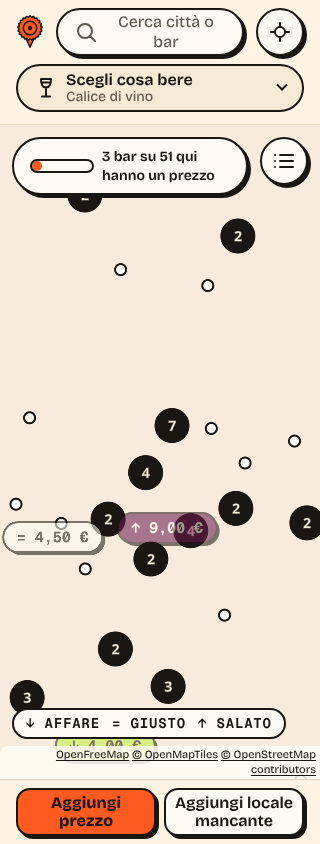
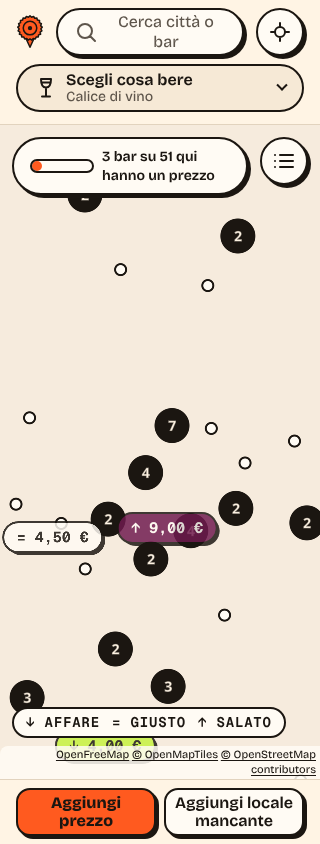
fix(map): attribution may wrap, legend follows its height, dot halo
Review findings: nowrap pushed the attribution off screen with WCAG
1.4.12 text spacing; the legend now sits above the measured attribution
height; the position dot gets a faint map-me halo so it differs from a
bar dot by shape in the dark theme (WCAG 1.4.1). Design system, D-33,
ADR 0031 and PROGRESS updated.

Claude-Session: https://claude.ai/code/session_017jgMpjY436qbLfecrhWy92

diff --git a/tests/e2e/brand-map.spec.ts b/tests/e2e/brand-map.spec.ts
@@ -95,6 +95,33 @@ for (const [scheme, width, lines] of [
   });
 }
 
+test("SPEC 2.8 with WCAG 1.4.12 text spacing the attribution wraps inside the map, under the legend", async ({
+  page,
+}) => {
+  await page.goto("/");
+  await goToMilano(page);
+  await chooseDrinks(page, "Calice di vino");
+  const attribution = page.locator(".map__attribution");
+  // CSSOM, as a user stylesheet would: the CSP forbids an inline <style>.
+  await attribution.evaluate((e) => {
+    e.style.letterSpacing = "0.12em";
+    e.style.wordSpacing = "0.16em";
+    e.style.lineHeight = "1.5";
+  });
+  await expect(attribution).toContainText("© OpenStreetMap contributors");
+  expect(await attribution.evaluate((e) => e.scrollWidth <= e.clientWidth)).toBe(true);
+  const map = await mapRegion(page).boundingBox();
+  const line = await attribution.boundingBox();
+  expect(line && map && line.x >= map.x && line.x + line.width <= map.x + map.width).toBe(true);
+  await expect
+    .poll(async () => {
+      const legend = await page.locator(".legend").boundingBox();
+      const now = await attribution.boundingBox();
+      return legend && now ? now.y - (legend.y + legend.height) : -1;
+    })
+    .toBeGreaterThanOrEqual(0);
+});
+
 for (const scheme of ["light", "dark"] as const) {
   test(`MB-06 MB-14 ${scheme}: own style, no axe violations`, async ({ page }, info) => {
     await atHour(page, THEME_HOURS[scheme]);

diff --git a/src/app/styles/app.css b/src/app/styles/app.css
@@ -312,7 +312,6 @@
   margin: 0;
   padding: 2px var(--space-1);
   line-height: 1.3;
-  white-space: nowrap;
   text-align: right;
   font-size: var(--size-legal);
   color: var(--map-pill-text);
@@ -323,12 +322,6 @@
   color: var(--map-pill-text);
   text-decoration-thickness: 1px;
   text-underline-offset: 2px;
-}
-/* A narrow phone wraps rather than cutting the names off. */
-@media (max-width: 359px) {
-  .map__attribution {
-    white-space: normal;
-  }
 }
 
 /* Bottom bar */
@@ -1054,22 +1047,18 @@
   color: var(--map-pill-text);
 }
 /* Legend and invitation float over the map above the attributions (SPEC 2.8: always visible, one line
-   from 360 px, two below); nothing here takes room from the map. */
+   at 390 px, more on a narrow phone or with larger text: their height is measured); nothing here takes
+   room from the map. */
 .map__stack {
   position: absolute;
   left: var(--space-3);
   right: var(--space-3);
-  bottom: var(--space-6);
+  bottom: calc(var(--attribution-h, var(--space-6)) + var(--space-2));
   display: flex;
   flex-direction: column;
   align-items: flex-start;
   gap: var(--space-2);
   pointer-events: none;
-}
-@media (max-width: 359px) {
-  .map__stack {
-    bottom: calc(var(--space-8) + var(--space-2));
-  }
 }
 
 /* Price legend (D-12): shown only when the zone has colours; glyph + word, never colour alone */

diff --git a/src/app/lib/maplibre-map.ts b/src/app/lib/maplibre-map.ts
@@ -329,7 +329,14 @@ export class VenueMap {
       },
     });
     // Where "Vicino a me" found the device (D-33): a small dot under the prices, drawn here only.
+    // A faint halo around it: it must differ from a bar dot by shape, not by colour only (WCAG 1.4.1).
     map.addSource("me", { type: "geojson", data: this.meData() });
+    map.addLayer({
+      id: "me-ring",
+      type: "circle",
+      source: "me",
+      paint: { "circle-radius": 12, "circle-color": token("--map-me"), "circle-opacity": 0.25 },
+    });
     map.addLayer({
       id: "me-dot",
       type: "circle",
@@ -427,7 +434,8 @@ export class VenueMap {
   private reportRendered() {
     const features = this.map.queryRenderedFeatures({ layers: ["venue-price"] });
     this.renderedListener?.([...new Set(features.map((f) => String(f.properties.label)))].sort());
-    const drawn = this.me && this.map.queryRenderedFeatures({ layers: ["me-dot"] }).length > 0;
+    const drawn =
+      this.me && this.map.queryRenderedFeatures({ layers: ["me-ring", "me-dot"] }).length === 2;
     const at = drawn && this.me ? this.map.project([this.me.lon, this.me.lat]) : null;
     this.meListener?.(at ? { x: at.x, y: at.y } : null);
   }

diff --git a/tests/e2e/position-dot.spec.ts b/tests/e2e/position-dot.spec.ts
@@ -43,7 +43,7 @@ test.describe("MC-05 position dot", () => {
     // The device answers with window.__where (the browser's own cache would keep the first fix);
     // watchPosition is counted: the dot must never follow the device on its own.
     await page.addInitScript(
-      ([first]) => {
+      (first) => {
         const w = window as unknown as { __where: number[]; __watched: number };
         w.__where = first;
         w.__watched = 0;
@@ -55,7 +55,7 @@ test.describe("MC-05 position dot", () => {
         };
         navigator.geolocation.watchPosition = () => ++w.__watched;
       },
-      [[DUOMO.latitude, DUOMO.longitude]],
+      [DUOMO.latitude, DUOMO.longitude],
     );
     await page.goto("/");
     expect(await dotAt(page)).toBeNull();
@@ -67,8 +67,8 @@ test.describe("MC-05 position dot", () => {
     // The device moves: the dot does not follow on its own.
     const before = await dotAt(page);
     await page.evaluate(
-      ([lat, lon]) => {
-        (window as unknown as { __where: number[] }).__where = [lat, lon];
+      (where) => {
+        (window as unknown as { __where: number[] }).__where = where;
       },
       [BRERA.latitude, BRERA.longitude],
     );

diff --git a/src/app/app.tsx b/src/app/app.tsx
@@ -465,6 +465,20 @@ export function App({ loadMap }: Props) {
     }
   }
 
+  // The legend stays above the attribution however many lines it takes (SPEC 2.8).
+  useEffect(() => {
+    const attribution = document.querySelector<HTMLElement>(".map__attribution");
+    const map = attribution?.parentElement;
+    if (!attribution || !map) return;
+    const observer = new ResizeObserver(() => {
+      map.style.setProperty("--attribution-h", `${String(Math.ceil(attribution.offsetHeight))}px`);
+    });
+    observer.observe(attribution);
+    return () => {
+      observer.disconnect();
+    };
+  }, []);
+
   // The toast region follows the topmost sheet and sits just above the attribution (SPEC 2.8).
   useEffect(() => {
     const layer = topLayer();

diff --git a/docs/SPEC.md b/docs/SPEC.md
@@ -2,7 +2,7 @@
 
 > **Versione 1.8 · 24/10/2026 · la 1.8 aggiunge sulla mappa un pallino piccolo della posizione, che compare solo dopo «Vicino a me» e resta fermo finché non lo si ritocca, e riduce le attribuzioni a una sola riga piccola nell'angolo, sempre visibili (7.1, D-33, MC-05, ADR 0031); è decisa da Roberto il 24/10/2026 in chat, e vale con il tag `spec-approved-9`. Storico: versione 1.7 · 21/10/2026 · la 1.7 toglie dalla mappa la frase della zona senza prezzi («Qui nessuno ha ancora segnato un prezzo…»): appesantisce la schermata e non dà valore (7.1, D-28, MB-13); è decisa da Roberto il 21/10/2026 in chat, e valeva con il tag `spec-approved-8`. Storico: versione 1.6 · 21/10/2026 · la 1.6 sostituisce la lista dei drink con i nove voluti da Roberto, senza formati né millilitri in nessun punto (ADR 0028), e al posto della riga di chip mette un solo menu «Scegli cosa bere» a caselle multiple, con il prezzo più basso tra i drink scelti sul segnaposto (7.1, 6, D-04, M1-09, MC-01…MC-04); è decisa da Roberto il 21/10/2026 in chat, e valeva con il tag `spec-approved-7`. Storico: versione 1.5 · 21/10/2026 · la 1.5 porta l'Annulla da 10 a 5 secondi, riduce la barra della mappa ai soli due tasti "Aggiungi prezzo" e "Aggiungi locale mancante" ("Elenco" diventa un'icona sulla mappa, "Manda la mappa a un amico" sparisce) e fissa che la mappa non cambia mai altezza (ADR 0027, D-15, D-28, M1-16); è decisa da Roberto il 21/10/2026 in chat, e vale con il tag `spec-approved-6` (la 1.4 e il tag `spec-approved-5` stanno sul ramo `brand-v2-map`, non unito a `main`). Storico: versione 1.3 · 16/10/2026 · la 1.3 aggiunge la brand identity v1 (ADR 0023) e la ricerca dei bar per nome in tutta Italia (ADR 0024); è approvata da Roberto il 16/10/2026 in chat, e vale con il tag `spec-approved-4`. Storico: versione 1.2 · 15/10/2026 · la 1.2 aggiunge la dashboard di copertura in `/admin` (ADR 0022, M5-11…M5-16) ed è autorizzata da Roberto il 15/10/2026 in chat, e valeva con il tag `spec-approved-3`; versione 1.1 · 14/10/2026 · la 1.0 è approvata da Roberto l'11/10/2026 (tag `spec-approved`); la 1.1 è autorizzata da Roberto il 13/10/2026 (prompt v3.2) e il 14/10/2026 in chat, e valeva con il tag `spec-approved-2`.**
 >
-> **Registro delle modifiche 1.8:** (1) pallino della posizione (D-33): un cerchio di 12 px disegnato sul dispositivo dove «Vicino a me» ha trovato il telefono; non compare per le altre letture della posizione (Aggiungi prezzo), non segue il telefono (niente `watchPosition`) e si sposta solo a un nuovo tocco del pulsante; nessuna richiesta di rete in più; (2) attribuzioni in una riga sola, piccole, nell'angolo in basso a destra, sempre visibili e con lo stesso testo (2.8 invariato); (3) nuova voce MC-05. Nessuna modifica a schema, API e scritture.
+> **Registro delle modifiche 1.8:** (1) pallino della posizione (D-33): un cerchio di 12 px disegnato sul dispositivo dove «Vicino a me» ha trovato il telefono; non compare per le altre letture della posizione (Aggiungi prezzo), non segue il telefono (niente `watchPosition`) e si sposta solo a un nuovo tocco del pulsante; nessuna richiesta di rete in più; (2) attribuzioni in una riga sola, piccole, nell'angolo in basso a destra (a capo solo su un telefono stretto o con il testo spaziato, con la legenda sempre sopra), sempre visibili e con lo stesso testo (2.8 invariato); (3) nuova voce MC-05. Nessuna modifica a schema, API e scritture.
 >
 > **Registro delle modifiche 1.7:** la frase "Qui nessuno ha ancora segnato un prezzo. Il primo sei tu: ci vogliono 10 secondi." (zona con copertura sotto il 5%) non compare più in nessun punto; la zona senza prezzi è la stessa schermata delle altre, con la stessa barra a due tasti, la legenda e l'invito all'installazione dove previsti; voce MB-13 riscritta, soglia del 5% eliminata dal codice. Nessuna modifica a schema, API e scritture.
 >
@@ -76,7 +76,7 @@ Ordine di priorità in caso di conflitto: vincoli → sicurezza e privacy → ac
 | D-29 | Tessera (v1.3) | Timbri a 1, 5, 10, 25 e 50 prezzi inseriti, dal contatore già in `localStorage` (12). Nessun dato sul server, nessuna chiave nuova, nessuna classifica. |
 | D-30 | Ricerca per nome (v1.3) | Qualunque bar OSM d'Italia si trova per nome dalla casella di ricerca, con un indice statico a frammenti per prefisso di parola generato all'import (5.1, ADR 0024). Zero richieste a `/api/*` e zero letture D1 per ricerca. Nessuna ricerca per quartiere. |
 | D-31 | Parole vietate (v1.3) | Un test fallisce se `it.ts` contiene, senza accenti e per radice: «sbronz», «ubriac», «sballo», «shot», «chupito», «brindis», «brinda», «bevi di più», «bere di più», «a volontà», «open bar», «senza limiti», «tracanna», «alcolic» (escluso «analcolico»). Elenco approvato da Roberto il 16/10/2026; si aggiorna solo con il suo ok. Si parla di prezzi e posti, mai di bere tanto (L. 125/2001, art. 13). |
-| D-33 | Pallino della posizione (v1.8) | Dopo «Vicino a me» riuscito la mappa disegna un cerchio di 12 px (token `map-me`, bordo chiaro, senza alone di precisione) nel punto trovato, sotto i prezzi e non toccabile. Solo quel pulsante lo accende: la posizione letta per "Aggiungi prezzo" non lo mostra. È statico: niente `watchPosition`, si sposta solo a un nuovo tocco; se la nuova lettura fallisce resta l'ultimo. Disegnato sul dispositivo, nessuna richiesta in più (14). Decisione di Roberto del 24/10/2026. |
+| D-33 | Pallino della posizione (v1.8) | Dopo «Vicino a me» riuscito la mappa disegna un cerchio di 12 px (token `map-me`, bordo chiaro, con un alone tenue dello stesso colore che lo distingue per forma dai bar senza prezzo; nessun alone di precisione) nel punto trovato, sotto i prezzi e non toccabile. Solo quel pulsante lo accende: la posizione letta per "Aggiungi prezzo" non lo mostra. È statico: niente `watchPosition`, si sposta solo a un nuovo tocco; se la nuova lettura fallisce resta l'ultimo. Disegnato sul dispositivo, nessuna richiesta in più (14). Decisione di Roberto del 24/10/2026. |
 | D-32 | Limiti della ricerca (v1.3) | Non si trovano per nome i 997 bar con nomi fatti solo di parole vuote («Bar», «Caffè»). **Dal 19/10/2026 (ADR 0025) i bar utente approvati si trovano per nome**, da `GET /api/venues/approved` (una lettura per visita, senza il testo digitato). I bar nascosti dall'admin restano nei frammenti: dopo la scelta la cella li segnala (`h`, ADR 0017) e compare «Questo locale non è più sulla mappa». Decisioni di Roberto del 16/10/2026. |
 
 ## 4. Stack e architettura

diff --git a/docs/PROGRESS.md b/docs/PROGRESS.md
@@ -9,13 +9,14 @@ Una voce per sessione, la più recente in alto. Ogni voce: data, milestone, cosa
 **Richiesta di Roberto (screenshot iPhone):** ridurre la scritta in basso «OpenFreeMap © OpenMapTiles © OpenStreetMap contributors» e mostrare un pallino blu piccolo della posizione, solo dopo il pulsante in alto a destra, fermo finché non lo si ritocca. Autorizzati da lui in chat: SPEC 1.8, la voce nuova MC-05 in `feature_list.json`, il tag `spec-approved-9` e la guardia aggiornata. (Il suo «non mi trovava» dipendeva dalla posizione di Safari spenta: attivandola funziona.)
 
 **Fatto**
-- Attribuzioni (SPEC 2.8, testo invariato): una riga a 11 px (`--size-legal`, generato da `scripts/tokens.ts`) in un'etichetta nell'angolo in basso a destra, invece di due righe a 14 px su tutta la larghezza; sotto i 360 px va a capo e la legenda resta sopra. La legenda scende da 64 a 24 px dal bordo.
-- Pallino (D-33, ADR 0031): layer `circle` `me-dot` da 12 px (token `map-me` in `docs/brand/tokens.json`, bordo chiaro) sotto i prezzi; lo accende solo `nearMe()` in `app.tsx`, non la posizione letta per Aggiungi prezzo; niente `watchPosition`; rimesso al cambio di tema. `data-me` (pixel sullo schermo, mai coordinate) per gli e2e.
+- Attribuzioni (SPEC 2.8, testo invariato): una riga a 11 px (`--size-legal`, generato da `scripts/tokens.ts`) in un'etichetta nell'angolo in basso a destra, invece di due righe a 14 px su tutta la larghezza; va a capo se serve (telefono stretto, testo spaziato WCAG 1.4.12) e la legenda resta 8 px sopra la sua altezza misurata (`ResizeObserver`, `--attribution-h`).
+- Pallino (D-33, ADR 0031): layer `circle` `me-dot` da 12 px (token `map-me` in `docs/brand/tokens.json`, bordo chiaro) con alone `me-ring` al 25% (forma diversa dai bar senza prezzo nel tema scuro, WCAG 1.4.1) sotto i prezzi; lo accende solo `nearMe()` in `app.tsx`, non la posizione letta per Aggiungi prezzo; niente `watchPosition`; rimesso al cambio di tema. `data-me` (pixel sullo schermo, mai coordinate) per gli e2e.
 - SPEC 1.8 (7.1, D-33, MC-05, registro), ADR 0031, riga in `PRIVACY-NOTES.md`, guardia e CI su `spec-approved-9`.
 
 **Prove (Chromium; WebKit non installato nel container, lo esegue la CI)**
 - `tests/e2e/position-dot.spec.ts`: 4 verdi (nessun pallino prima, pallino al centro dopo «Vicino a me», fermo quando il telefono si sposta e `watchPosition` mai chiamato, sulla nuova posizione al nuovo tocco, spento con Aggiungi prezzo, axe nei due temi).
-- `brand-map.spec.ts` SPEC 2.8 a 390 (due temi) e 320 px: verdi; il caso a 320 px è **rosso senza la correzione della legenda** (sovrapposizione), verde con.
+- `brand-map.spec.ts` SPEC 2.8 a 390 (due temi) e 320 px, più il caso con la spaziatura WCAG 1.4.12: verdi; il caso a 320 px era **rosso** con la legenda a distanza fissa e quello 1.4.12 è **rosso** con `nowrap` (testo fuori schermo), verdi dopo.
+- Revisioni: `spec-reviewer` (OK, segnalata la legenda a 320 px: corretta) e `ux-a11y-reviewer` (OK, segnalati `nowrap`, la legenda, il pallino distinguibile solo per colore nel tema scuro e il design system: tutti corretti).
 - Tutta la suite e2e Chromium: 116 verdi prima della correzione dei 320 px; `npm run test` 519 verdi (MB-01 token identici, MB-03 contrasto `map-me` su `map-land` ≥ 3:1 nei due temi); `npm run test:security` 16 verdi; lint, formato, typecheck, guardia, workflow, config, audit, build verdi; shell 43.640 B su 51.200.
 - Screenshot 390×844 (e 320) in `docs/screenshots/mc/` (`mc-05-dot-*.png`, `attribution-*.png`).
 

diff --git a/docs/adr/0031-pallino-posizione-attribuzione-compatta.md b/docs/adr/0031-pallino-posizione-attribuzione-compatta.md
@@ -6,10 +6,10 @@
 Dallo screenshot di Roberto (iPhone, 390 px): (1) le attribuzioni della mappa, a 14 px su due righe in una fascia larga quanto lo schermo, sembrano pubblicità e tolgono spazio; (2) dopo «Vicino a me» la mappa si centra ma non mostra dove si è.
 
 ## Decisione
-- **Attribuzioni:** restano (licenza ODbL e linee guida OSMF, SPEC 2.8) con lo stesso testo, ma in una riga sola a 11 px (`--size-legal`), in un'etichetta piccola nell'angolo in basso a destra. Sotto i 360 px possono andare a capo invece di essere tagliate. Scartata l'icona ⓘ che le apre: non sarebbero più «sempre visibili».
-- **Pallino:** un cerchio `circle` di MapLibre da 12 px (token `map-me`, bordo chiaro, nessun alone), sotto i prezzi e non toccabile. Lo accende solo «Vicino a me»: le altre letture della posizione (Aggiungi prezzo) non lo mostrano. È statico, quindi niente `watchPosition` (GPS non acceso in continuo, codice minimo), e si sposta a ogni nuovo tocco. `locate()` accetta una posizione vecchia fino a 60 s, quindi un tocco entro un minuto può ridare quella precedente: accettato.
+- **Attribuzioni:** restano (licenza ODbL e linee guida OSMF, SPEC 2.8) con lo stesso testo, ma in una riga sola a 11 px (`--size-legal`), in un'etichetta piccola nell'angolo in basso a destra. Possono andare a capo (telefono stretto, testo spaziato come in WCAG 1.4.12): mai tagliate né fuori schermo, e la legenda segue la loro altezza misurata (`--attribution-h`). Scartata l'icona ⓘ che le apre: non sarebbero più «sempre visibili».
+- **Pallino:** un cerchio `circle` di MapLibre da 12 px (token `map-me`, bordo chiaro) con un alone `map-me` al 25% di 24 px: nel tema scuro un bar senza prezzo è un pallino chiaro e il colore da solo non basterebbe a distinguerli (WCAG 1.4.1), sotto i prezzi e non toccabile. Lo accende solo «Vicino a me»: le altre letture della posizione (Aggiungi prezzo) non lo mostrano. È statico, quindi niente `watchPosition` (GPS non acceso in continuo, codice minimo), e si sposta a ogni nuovo tocco. `locate()` accetta una posizione vecchia fino a 60 s, quindi un tocco entro un minuto può ridare quella precedente: accettato.
 
 ## Conseguenze
 - Privacy invariata: la posizione resta sul dispositivo, nessuna richiesta in più (M1-14 la verifica col pallino acceso).
 - Il layer `me-dot` viene rimesso al cambio di tema insieme agli altri; la sua posizione sullo schermo è esposta nel DOM (`data-me`, solo pixel) per gli e2e.
-- La legenda scende da 64 a 24 px sopra il bordo della mappa, perché le attribuzioni ora occupano una riga.
+- La legenda sta 8 px sopra le attribuzioni, misurate con un `ResizeObserver` (prima: 64 px fissi).

diff --git a/design-system/pages/mappa.md b/design-system/pages/mappa.md
@@ -4,7 +4,8 @@ Riferimento: `docs/brand/mockup/1-mappa.png`, `5-zona-vuota.png`, `docs/brand/03
 
 - **Struttura dall'alto**: simbolo (tappo) · casella "Cerca un bar o una città" (48 px, apre la Ricerca) · "Vicino a me" come pulsante a sola icona 48 px con `aria-label` (M3-15) · fila di chip dei drink scorrevole (`DrinkChips`, icona + nome, predefinita birra alla spina 0,4 l) · `CoverageMeter` "X bar su N qui hanno un prezzo" · mappa · legenda "↓ Affare · = Giusto · ↑ Salato" in `meta`, solo con colori attivi · in basso il primario `spritz` **"Aggiungi prezzo"** a larghezza piena (56 px) con "Elenco" come secondario accanto o sopra. "Aggiungi locale mancante" non c'è (D-28).
 - **Pin** (`docs/brand/03-mappa.md`): pillola `radius-pill` con glifo e prezzo in `price` (Geist Mono), bordo `ink` 2 px, ombra stampa; neutro sotto 5 prezzi (`surface`, nessun glifo); senza prezzo punto 10 px con area di tocco 48 px; cluster cerchio `ink` con numero in `price`, meno evidente dei prezzi; selezionato = tappo `spritz` con prezzo sotto, rimbalzo 260 ms; oltre 90 giorni bordo tratteggiato, senza ombra, corsivo; HH come D-13.
-- **Attribuzioni**: sempre visibili, contrasto AA, mai coperte dalla legenda.
+- **Attribuzioni**: sempre visibili, contrasto AA, mai coperte dalla legenda: una riga a 11 px nell'angolo in basso a destra, che va a capo su un telefono stretto o con il testo spaziato; la legenda ne segue l'altezza misurata (ADR 0031).
+- **Pallino della posizione** (D-33): cerchio `map-me` di 12 px con bordo chiaro e alone al 25% (si distingue dai bar per forma, non solo per colore), sotto i prezzi, non toccabile; solo dopo «Vicino a me», fermo fino al tocco successivo.
 - **Sotto zoom 13**: "Avvicinati per vedere i prezzi, o cerca una città." su `surface`, `role="status"`.
 - **Zona senza prezzi** (copertura < 5%): foglio con `display` "Qui nessuno ha ancora segnato un prezzo." e il primario; da qui si raggiunge anche "Non trovi il bar?".
 - **Elenco** (SPEC 7.1): foglio con righe 56 px, `PricePill` HTML con glifo e testo del gradino ("affare", "giusto", "salato"), distanza se nota; ogni riga apre la scheda.

diff --git a/design-system/MASTER.md b/design-system/MASTER.md
@@ -20,7 +20,7 @@ Una schermata, un'azione primaria. Una mano, poca luce: comandi nella metà bass
 
 ## Tipografia
 - **Bricolage Grotesque** (`sans`, variabile 200–800) per tutto il testo; **Geist Mono** (`mono`) solo per `price-xl`, `price`, `meta`. Due woff2 del kit, self-hosted, ≤ 70 KB in tutto, `font-display: swap`, preload del solo Bricolage, fallback con metriche misurate.
-- Stili: `display` (una volta per schermata), `title`, `subtitle`, `body` (mai sotto 16 px), `label`, `caption`, `price-xl`, `price`, `meta` (maiuscolo solo qui). Cifre tabellari negli elenchi.
+- Stili: `display` (una volta per schermata), `title`, `subtitle`, `body` (mai sotto 16 px), `label`, `caption`, `price-xl`, `price`, `meta` (maiuscolo solo qui). Cifre tabellari negli elenchi. Solo per le attribuzioni della mappa: `--size-legal` 11 px (ADR 0031).
 - Prezzi in formato italiano: `6,50 €` nelle schede, `6,50` nei pin.
 
 ## Forme, spazi, ombre
@@ -48,7 +48,7 @@ Anello `focus` pieno da 3 px con 2 px di distanza, così cade su `bg` o `surface
 Icone: 24 px, tratto 2 px, inline con `currentColor`, decorative con `aria-hidden`; i 9 drink da `docs/brand/assets/Icone/`.
 
 ## Mappa
-Vedi `docs/brand/03-mappa.md` e `pages/mappa.md`. Stili derivati da Positron (Bancone) e Dark (Fuori orario) con i token `map-*`, senza punti di interesse né etichette delle strade minori. I pin sono un livello `symbol` con immagini disegnate su canvas. Attribuzioni sempre visibili.
+Vedi `docs/brand/03-mappa.md` e `pages/mappa.md`. Stili derivati da Positron (Bancone) e Dark (Fuori orario) con i token `map-*`, senza punti di interesse né etichette delle strade minori. I pin sono un livello `symbol` con immagini disegnate su canvas. Attribuzioni sempre visibili, in una riga piccola (11 px) nell'angolo in basso a destra, che va a capo se serve. Pallino della posizione (D-33): `map-me` 12 px con bordo chiaro e alone `map-me` al 25%, solo dopo «Vicino a me» (ADR 0031).
 
 ## Logo
 Simbolo sulla mappa; logo orizzontale in `/privacy`, `/regole` e nelle condivisioni; negativo su fondo scuro; mono sotto 24 px. Icona dell'app: simbolo crema su `spritz`.
